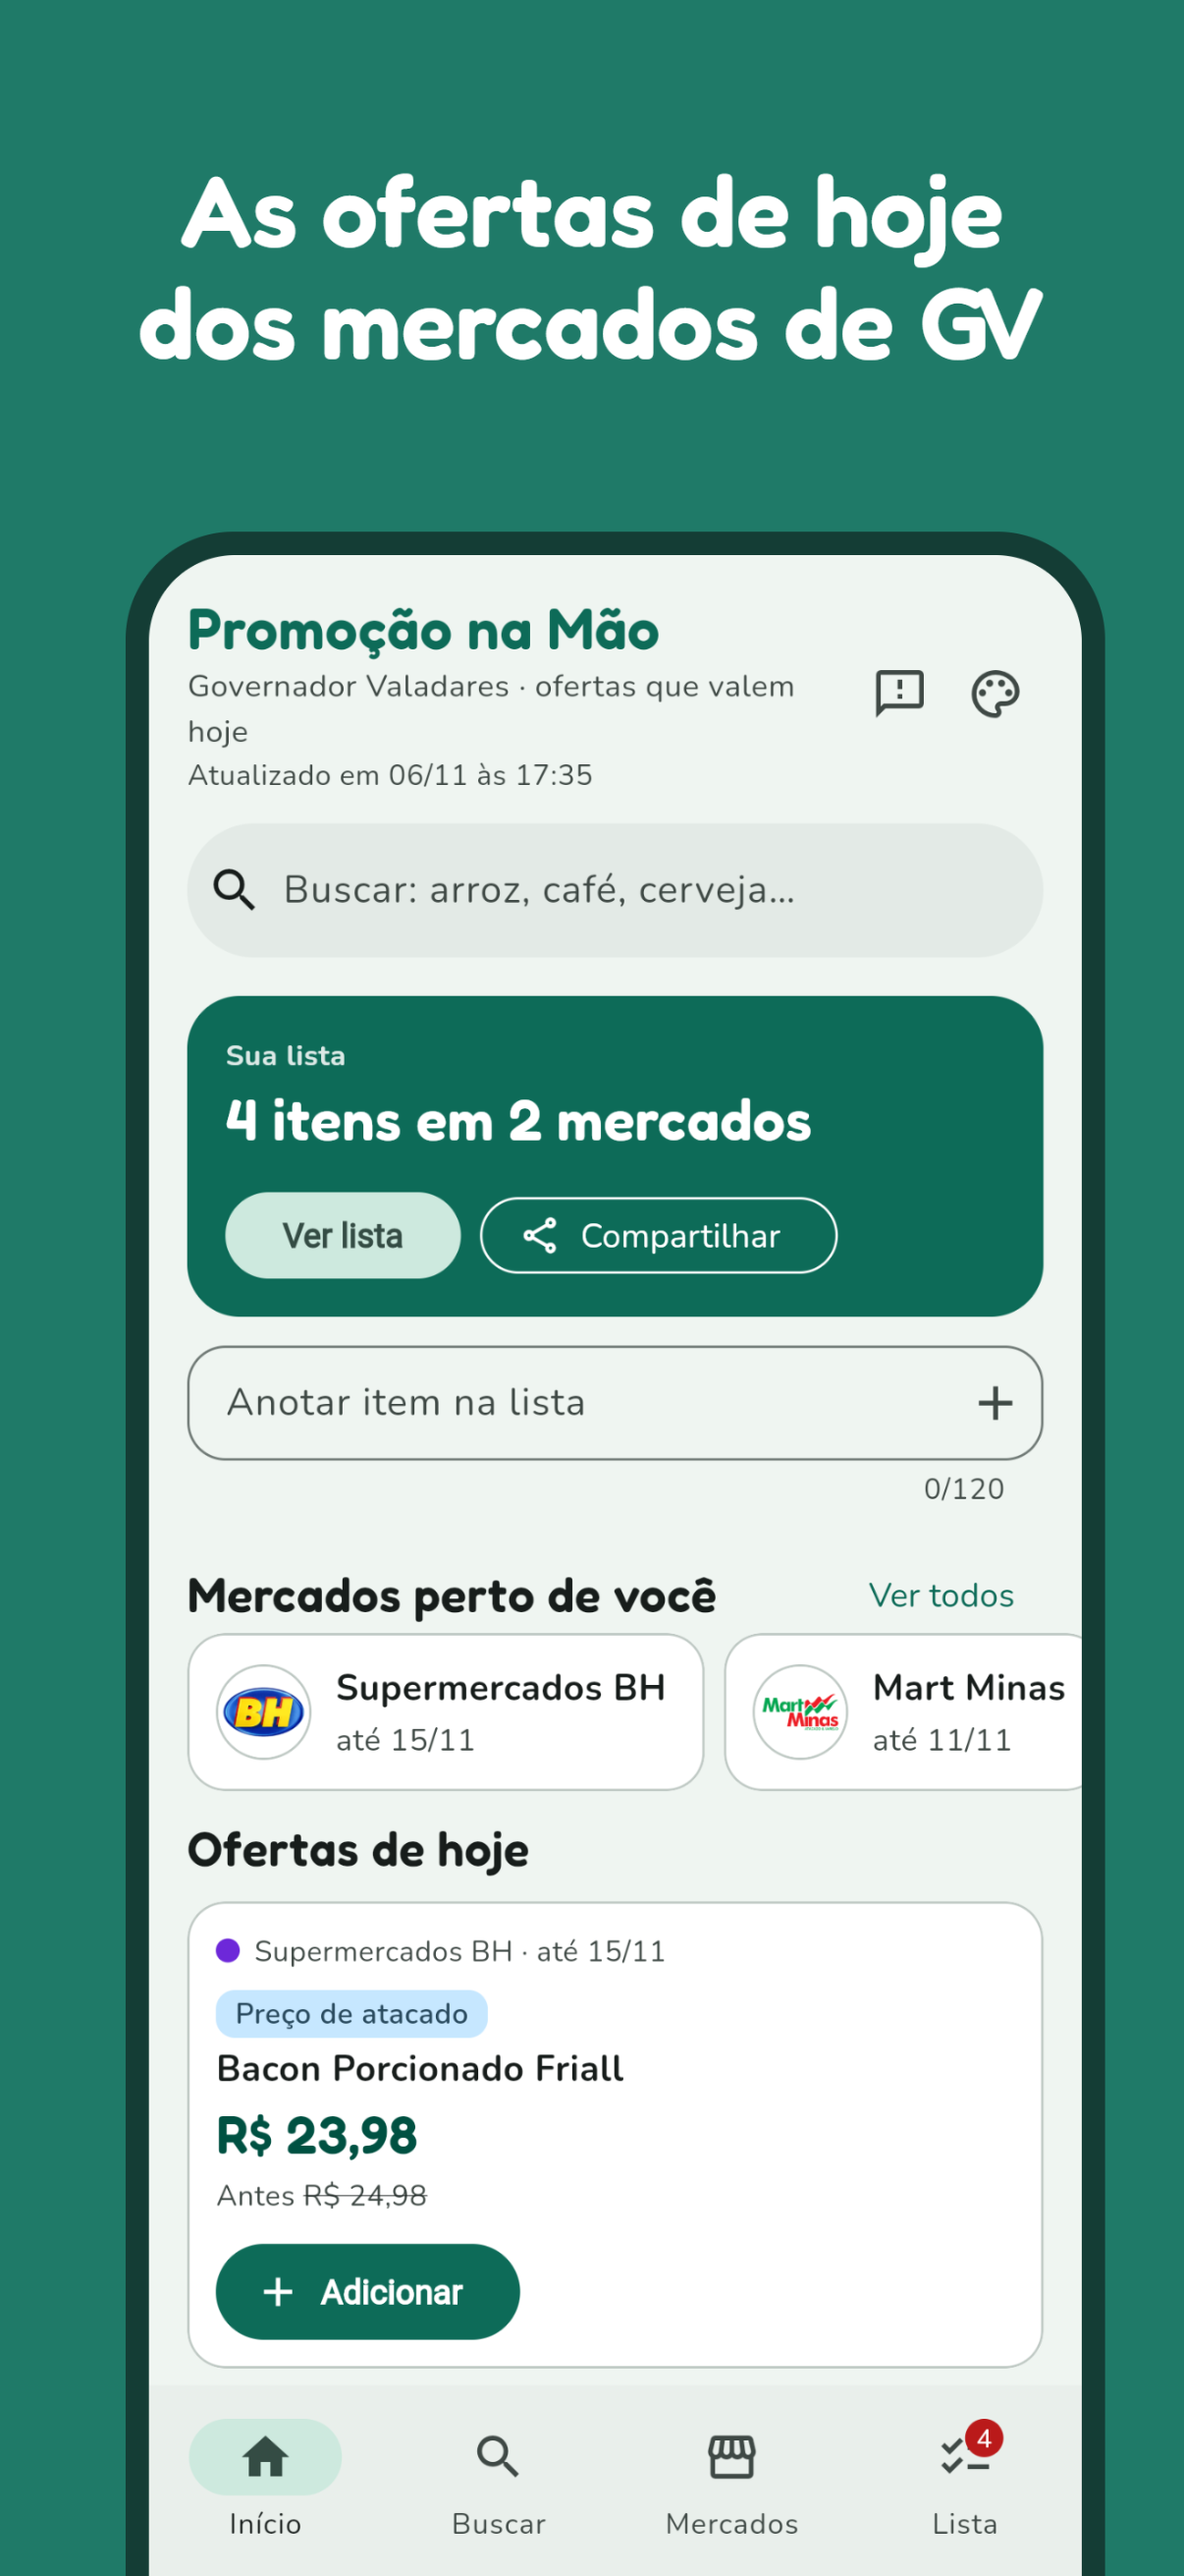
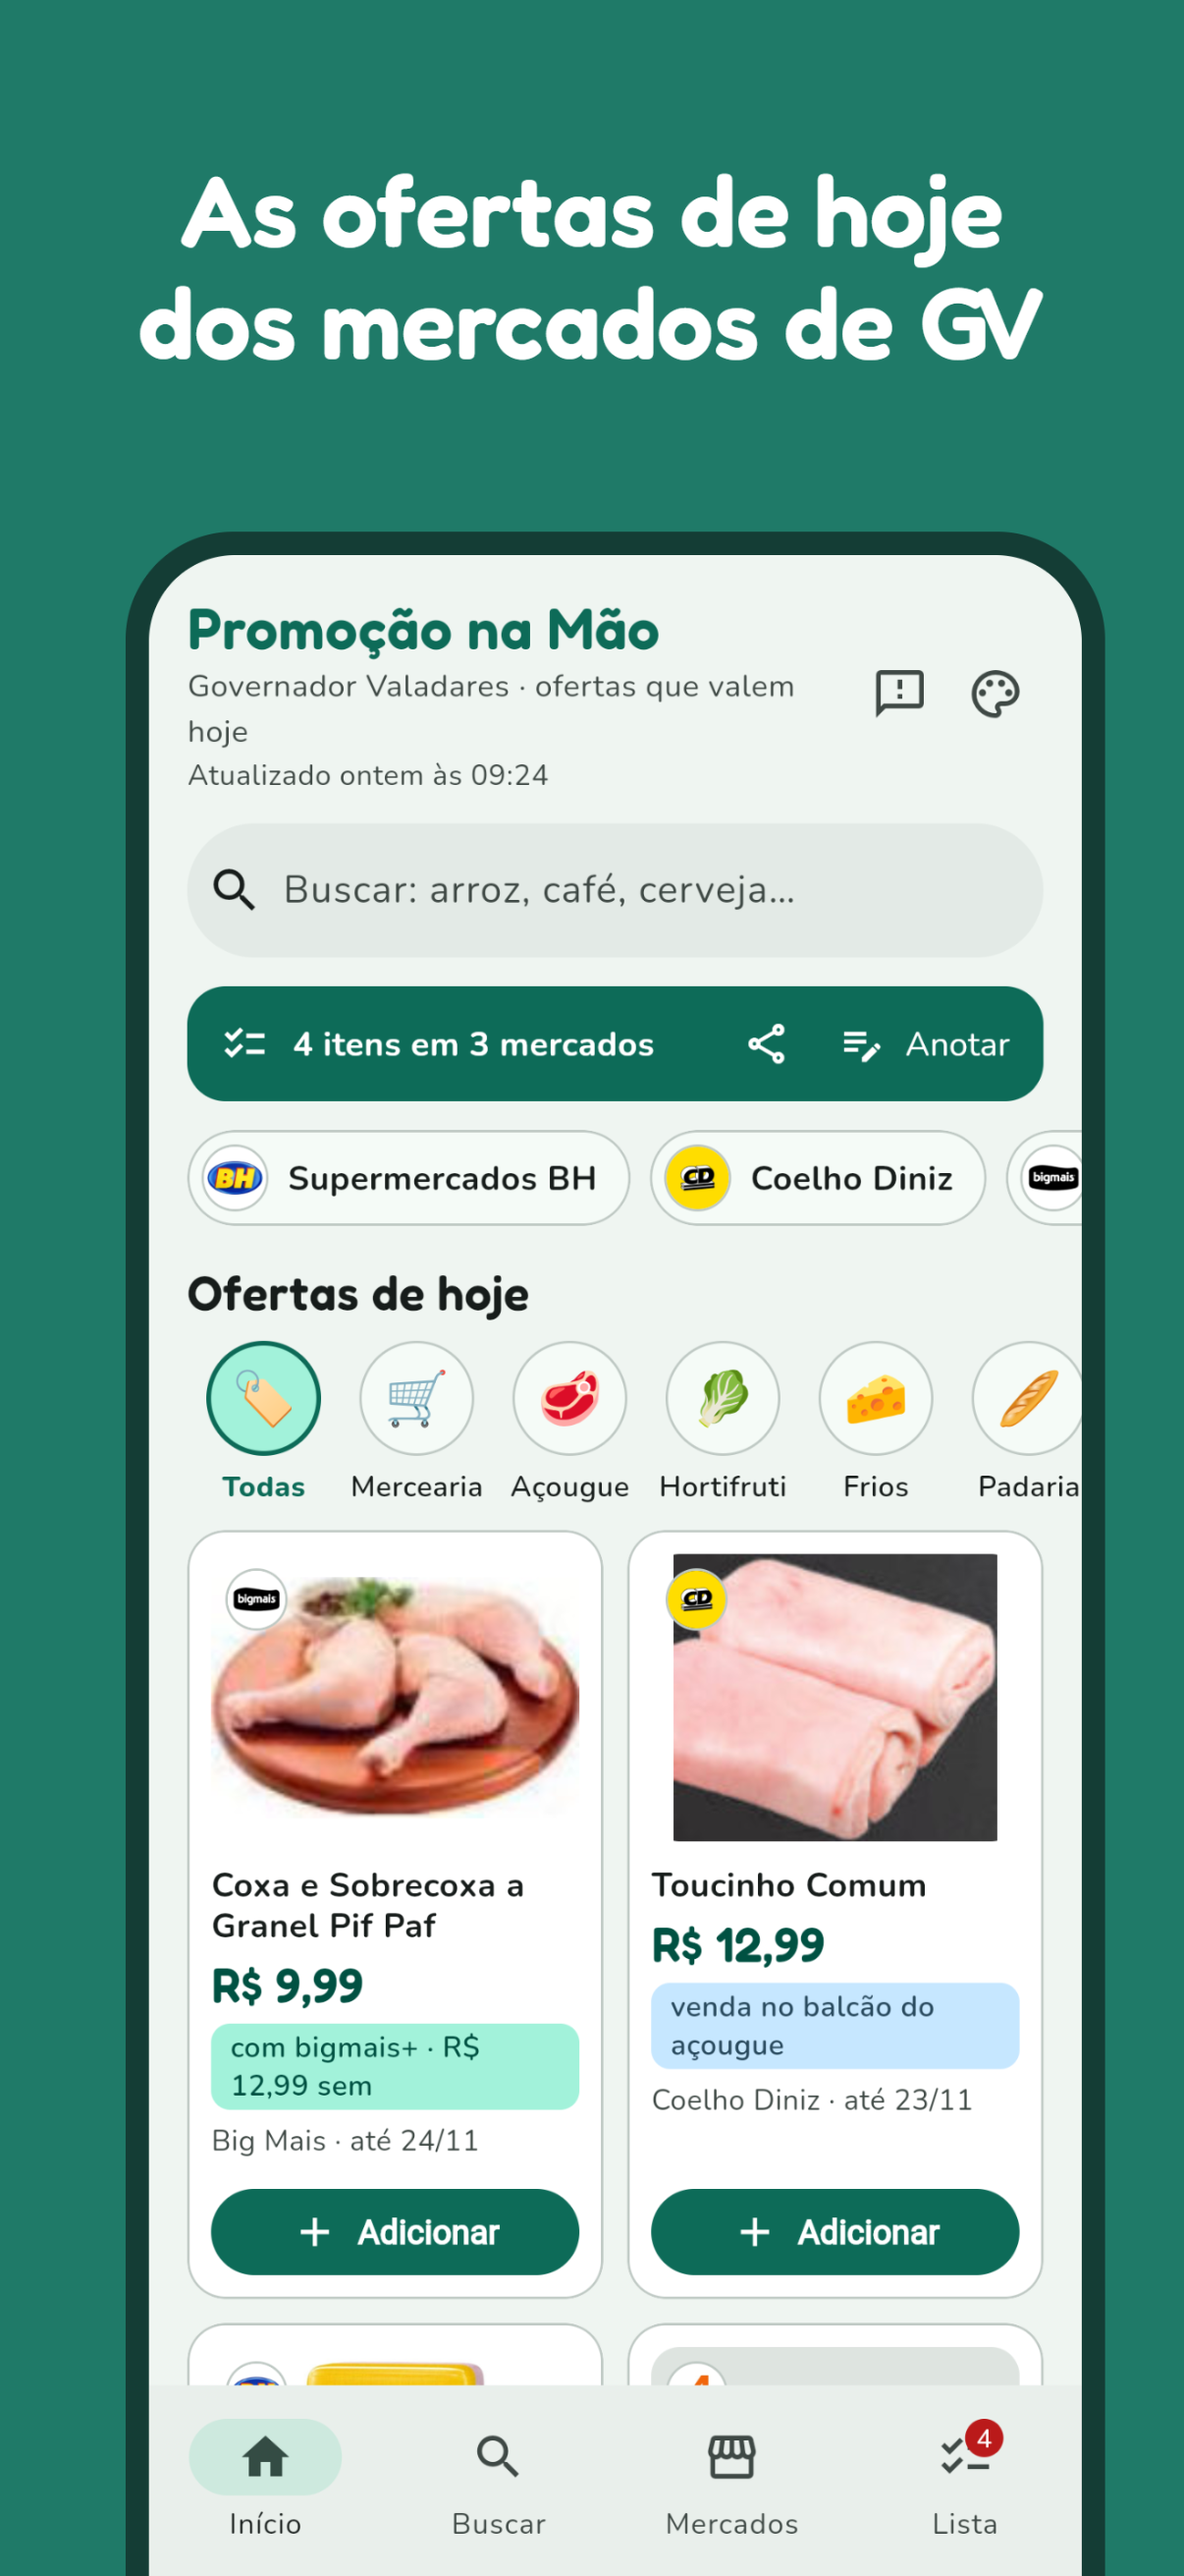
App 0.10.0+19: gráfico de preço; capturas das lojas com o layout novo
- Versão 0.10.0+19, release.txt e versions.txt (gráfico de preço, preço do clube em destaque, tamanho e preço do
  kg nos cards, lista sem perder item)
- Capturas da App Store (6,9" e 6,3"), destaques e capturas da Play (1080×1920) refeitas com o app 0.10.0 e dados
  de prod de 19/11: início, gráfico de preço, busca, lista, mercados
- Scripts: fotos.mjs repassa as fotos do R2 com CORS; moldura.mjs faz também o tamanho da Play

Changed region(s): [[0.1534, 0.3707, 0.9204, 0.9268], [0.3068, 0.278, 0.4602, 0.3089]]

diff --git a/docs/loja/app-store/README.md b/docs/loja/app-store/README.md
@@ -90,13 +90,15 @@ Dúvidas, sugestões ou quer anunciar? Escreva para oi.promocaonamao@gmail.com.
 **1206×2622** (ou 1179×2556), RGB sem transparência → [capturas-6.3/](capturas-6.3/). As de 6,9" (1320×2868, [capturas/](capturas/))
 foram recusadas nessa área em 08/11/2026 ("File dimensions are invalid"); `tools/reduzir.mjs` faz uma a partir da outra.
 Ordem:
-`1-inicio`, `2-busca`, `3-lista`, `4-oferta`, `5-mercados`. A Apple reduz sozinha para os iPhones menores.
+`1-inicio`, `2-preco` (gráfico "Como o preço variou"), `3-busca`, `4-lista`, `5-mercados` (refeitas em 19/11/2026, versão 0.10.0). A Apple reduz sozinha para os iPhones menores.
 iPad: não precisa (o app é só iPhone).
 
-Como foram feitas: o próprio app (Flutter web, `config/prod.json`, dados reais de prod de 08/11/2026) num Chrome
+Como foram feitas: o próprio app (Flutter web, `config/prod.json`, dados reais de prod de 19/11/2026) num Chrome
 sem janela em 390×844 ×3, localização negada, e a moldura com legenda em Fredoka no estilo das capturas da Play.
 Scripts em [tools/](tools/) (`npm i playwright-core` numa pasta temporária; usa o Chrome instalado):
-`node fotos.mjs <app/build/web> <cru> roteiro.json` e `node moldura.mjs <cru> <saida>`.
+`node fotos.mjs <app/build/web> <cru> roteiro.json` e `node moldura.mjs <cru> <saida>`. O `fotos.mjs` repassa as fotos do R2
+com cabeçalho de CORS (o bucket não libera `localhost`). A tela do gráfico abre uma oferta fixa do roteiro
+(`/oferta/15463`): na próxima vez, troque por uma oferta vigente cujo produto tenha histórico em vários mercados.
 Atenção: o roteiro cria uma lista de verdade no banco de prod (some sozinha em 6 meses; rodar com cuidado).
 
 **Header e Search Results** (aba "Header and Search Results", opcionais, só aparecem no iOS 27+; sem transparência):

diff --git a/docs/loja/README.md b/docs/loja/README.md
@@ -8,13 +8,11 @@ Material para publicar o app Android (flavor `prod`, `br.com.promocaonamao.app`)
 | [seguranca-dos-dados.md](seguranca-dos-dados.md) | respostas do formulário "Segurança dos dados", conferidas no código, e pendências |
 | `icone-512.png` | ícone 512×512 RGBA, redimensionado de `app/assets/icone/icone.png` |
 | `destaque-1024x500.png` | imagem de destaque, sem transparência, texto longe das bordas |
-| `capturas/` | 7 prints 1080×1920 do **app** (APK de dev num Pixel 9 Pro XL, 20/10/2026; dados do Supabase de dev), tema claro e cor padrão |
-| `capturas-com-legenda/` | 4 desses prints numa moldura verde com legenda em Fredoka |
+| `capturas-com-legenda/` | 5 telas 1080×1920 do app (versão 0.10.0, dados de prod de 19/11/2026) numa moldura verde com legenda em Fredoka: início, gráfico de preço, busca, lista, mercados |
 
-Como foram feitas: tela do celular em 9:16 (`adb shell wm size 1008x1920`), barra de status cortada (some
-também a faixa DEV) e ampliado para 1080×1920. **Localização negada** durante as capturas: as distâncias
-"814 m" etc. mostrariam onde o dev estava. Sem o painel Compartilhar (mostra o link do domínio de dev).
-Refazer quando o app de prod estiver no ar, se a interface mudar. Os scripts ficaram no scratchpad da sessão.
+Como foram feitas: com os mesmos scripts das capturas da App Store ([app-store/tools/](app-store/tools/), passo a passo no
+[README de lá](app-store/README.md)), moldura com `node moldura.mjs <cru> <saida> play`. Na Play o celular aparece
+cortado mais acima, por isso a tela do gráfico tem uma captura própria, mais rolada (`roteiro-play-preco.json`).
 
 ## O que só o dev faz no Play Console
 

diff --git a/docs/loja/ficha.md b/docs/loja/ficha.md
@@ -102,9 +102,9 @@ Antes de publicar, confira com o dev:
 |---|---|---|
 | Ícone 512×512 (PNG 32 bits) | [icone-512.png](icone-512.png) | 512×512, RGBA |
 | Imagem de destaque 1024×500 | [destaque-1024x500.png](destaque-1024x500.png) | 1024×500, RGB sem transparência |
-| Capturas de celular (2 a 8) | [capturas/](capturas/) (cruas) ou [capturas-com-legenda/](capturas-com-legenda/) | 1080×1920 (9:16) |
+| Capturas de celular (2 a 8) | [capturas-com-legenda/](capturas-com-legenda/) | 1080×1920 (9:16) |
 
-Ordem sugerida das capturas com legenda: ofertas de hoje → busca → lista → lista recebida.
+Ordem das capturas (pelo nome do arquivo): início → como o preço variou → busca → lista → mercados (refeitas em 19/11/2026, versão 0.10.0).
 Se usar as cruas, sugestão: 2-ofertas-de-hoje, 4-busca, 3-mercado, 5-lista, 6-compartilhar, 7-lista-recebida.
 
 ## Classificação de conteúdo (questionário IARC)
